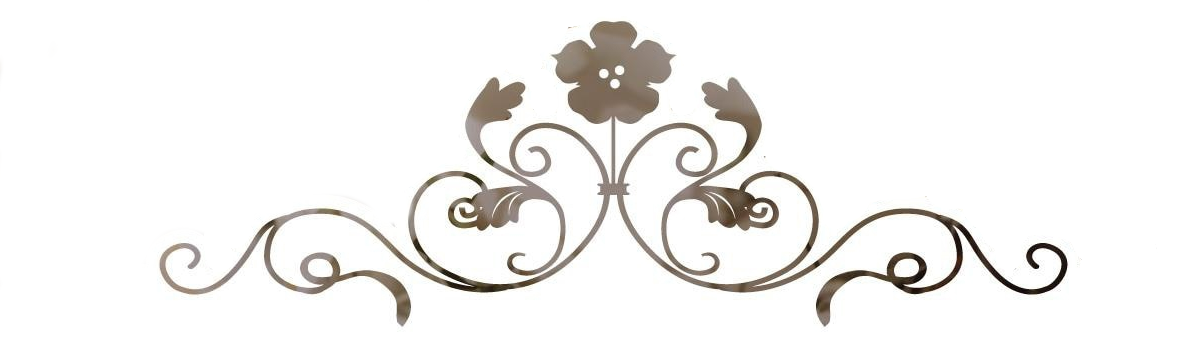
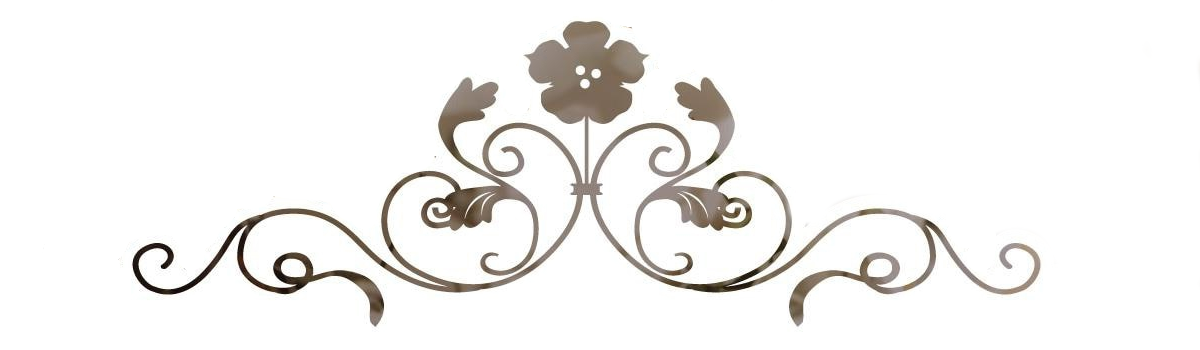
udpate

Changed region(s): [[0.0925, 0.0571, 0.8942, 0.9429]]

diff --git a/sitio_web/html/invitacion.html b/sitio_web/html/invitacion.html
@@ -3,7 +3,7 @@
 </div>
 
 <div class="separador" style="z-index:100; height: 80px;">
-    <div style="position:absolute; top: -210px;">
+    <div style="position:absolute; top: -180px;">
         <img src="../.././sitio_web/img/separador.png" width="100%">
     </div>
 </div>
@@ -33,7 +33,7 @@
 
 
 <div class="separador" class="sombra" style=" height: 1px;">
-    <div style="position:absolute; top:-90px; z-index:20;">
+    <div style="position:absolute; top:-70px; z-index:20;">
         <img src="../.././sitio_web/img/fondo2.jpg" width="100%">
     </div>
 </div>
@@ -45,7 +45,7 @@
 </div>
 
 <div class="separador" style="z-index:100; height: 80px;">
-    <div style="position:absolute; top: -210px;">
+    <div style="position:absolute; top: -220px;">
         <img src="../.././sitio_web/img/separador.png" width="100%">
     </div>
 </div>
@@ -61,7 +61,7 @@
 </div>
 
 
-<br><br><br><br>
+<br><br>
 <div class="container subtitulo">Esperamos contar con<br>tu presencia en</div>
 <br>
 
@@ -75,10 +75,10 @@
 </div>
 
 <div id="separador" class="sombra" style="position: relative; height: 1px;">
-    <div style="position:absolute; top:-100px; left: 50%; z-index:20;">
+    <div style="position:absolute; top:-60px; left: 50%; z-index:20;">
         <img src="../.././sitio_web/img/fondo3.jpg" width="100%">
     </div>
-    <div style="position:absolute; top:-100px; right: 50%; z-index:20;">
+    <div style="position:absolute; top:-60px; right: 50%; z-index:20;">
         <img src="../.././sitio_web/img/fondo4.jpg" width="100%">
     </div>
 </div>
@@ -92,7 +92,7 @@
 </div>         
 
 <div class="separador" style="z-index:100; height: 80px;">
-    <div style="position:absolute; top: -210px;">
+    <div style="position:absolute; top: -170px;">
         <img src="../.././sitio_web/img/separador.png" width="100%">
     </div>
 </div>
@@ -116,7 +116,7 @@
 </div>
 
 <div class="separador" class="sombra" style=" height: 100x;">
-    <div style="position:absolute; top:-100px; z-index:20;">
+    <div style="position:absolute; top:-60px; z-index:20;">
         <img src="../.././sitio_web/img/fondo5.jpg" width="100%">
     </div>
 </div>
@@ -124,12 +124,12 @@
 <div id="separador" class="sombra" style="z-index:20; height: 680px;">
 </div>
 <div class="separador" style="z-index:100; height: 80px;">
-    <div style="position:absolute; top: -210px;">
+    <div style="position:absolute; top: -190px;">
         <img src="../.././sitio_web/img/separador.png" width="100%">
     </div>
 </div>
 
-<div id="separador" class="sombra" style="z-index:20; height: 300px;">
+<div id="separador" class="sombra" style="z-index:20; height: 200px;">
     <div class="container titulo"><b>Mesa de Regalos</b></div>
     <div class="container subtitulo">La Marina 2075</div>
     <div class="container subtitulo">Liverpol 51423238</div>
@@ -137,9 +137,6 @@
 
 
 
-<div class="container">    
-    {map_misa}
-</div>
 
 <div class="container titulo">{salon_evento}</div>
 <div class="container subtitulo">Sera el Lugar</div>

diff --git a/sitio_web/html/invitado.html b/sitio_web/html/invitado.html
@@ -2,11 +2,12 @@
 <div class="container titulo">{nombre_evento}</div>
 <div id="separador"><img src="../.././sitio_web/img/separador.png" width="100%"></div>
 
+<div id="container">
 <div class="container subtitulo">DEJANOS TUS DATOS</div><br>
 <div class="container">     <input name="nombre_invitado" placeholder="NOMBRE COMPLETO" value="" class="container">    </div><br>
 <div class="container">     <input name="telefono_invitado" placeholder="CELULAR A 10 DIGITOS" value="" class="container">    </div><br>
 <div class="container">     <input name="email_invitado" placeholder="EMAIL" value="" class="container">    </div>
-
+</div>
 <br>
 <div class="container">    
     <font value="ACEPTAR" type="button">GUARDAR DATOS</font>

diff --git a/sitio_web/css/estilo.css b/sitio_web/css/estilo.css
@@ -62,7 +62,7 @@
 	  display:          block;
 	  justify-content:  center; /* Centra horizontalmente */
 	  align-items:      center;     /* Centra verticalmente */
-
+    align-content:center;
 	  text-align:       center;      /* Alinea el texto en el centro (si el texto ocupa varias líneas) */
     font-size:				30px; 
   }
